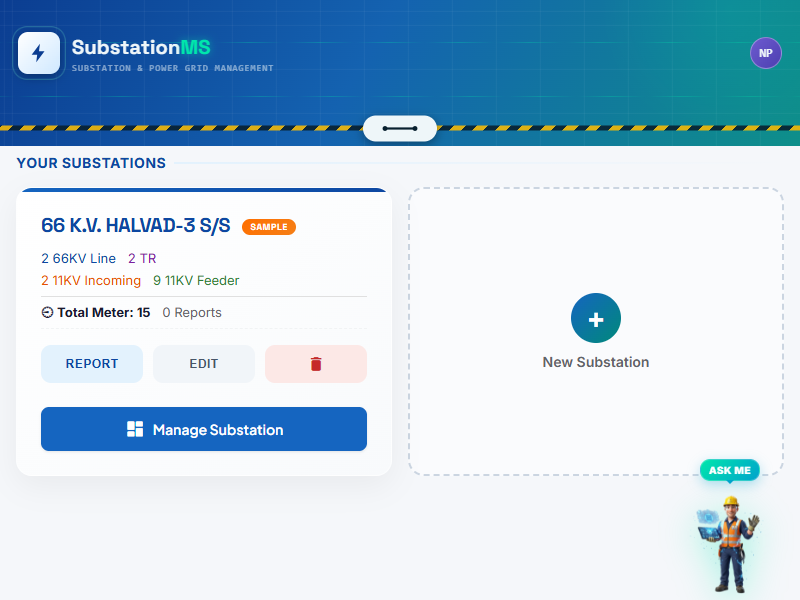
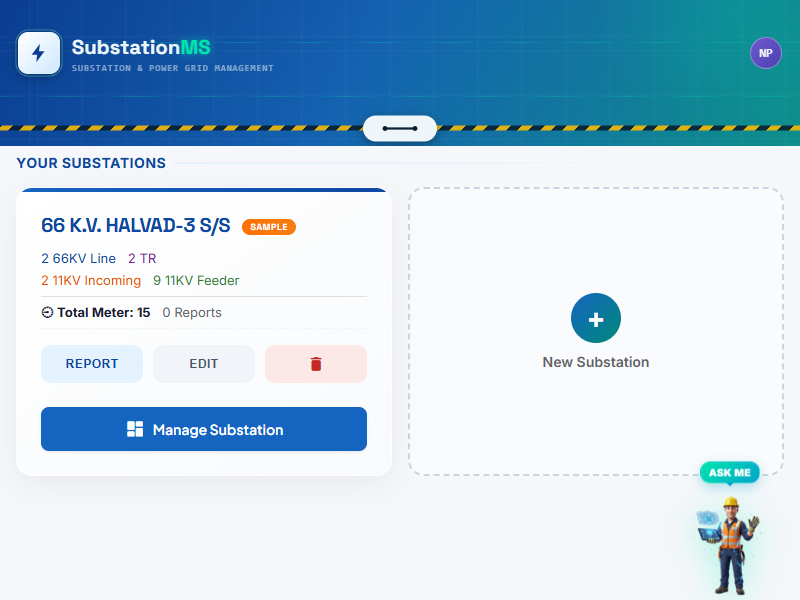
fix: resolve register sync substation_id fallback scope bug

diff --git a/js/database.js b/js/database.js
@@ -412,12 +412,12 @@ const DatabaseManager = {
                 if (!entries || !Array.isArray(entries)) return;
 
                 entries.forEach(entry => {
-                    const uniqueStr = (entry.substation_id || window.currentDashboardSSId || 'global') + '_' + title + '_' + entry.date + '_' + entry.time + '_' + entry.shift;
+                    const uniqueStr = (entry.substation_id || currentDashboardSSId || 'global') + '_' + title + '_' + entry.date + '_' + entry.time + '_' + entry.shift;
                     const entryId = this.generateUuid(uniqueStr);
 
                     entriesData.push({
                         id: entryId,
-                        substation_id: entry.substation_id || window.currentDashboardSSId || 'halvad3',
+                        substation_id: entry.substation_id || currentDashboardSSId || 'halvad3',
                         title: title,
                         entry_date: entry.date,
                         entry_time: entry.time + ':00',

diff --git a/js/pages/registersModule.js b/js/pages/registersModule.js
@@ -433,6 +433,7 @@ function saveRegisterEntry() {
     }
 
     const newEntry = {
+        substation_id: currentDashboardSSId || 'halvad3',
         date: dateInput.value,
         time: timeInput.value,
         shift: shiftText,